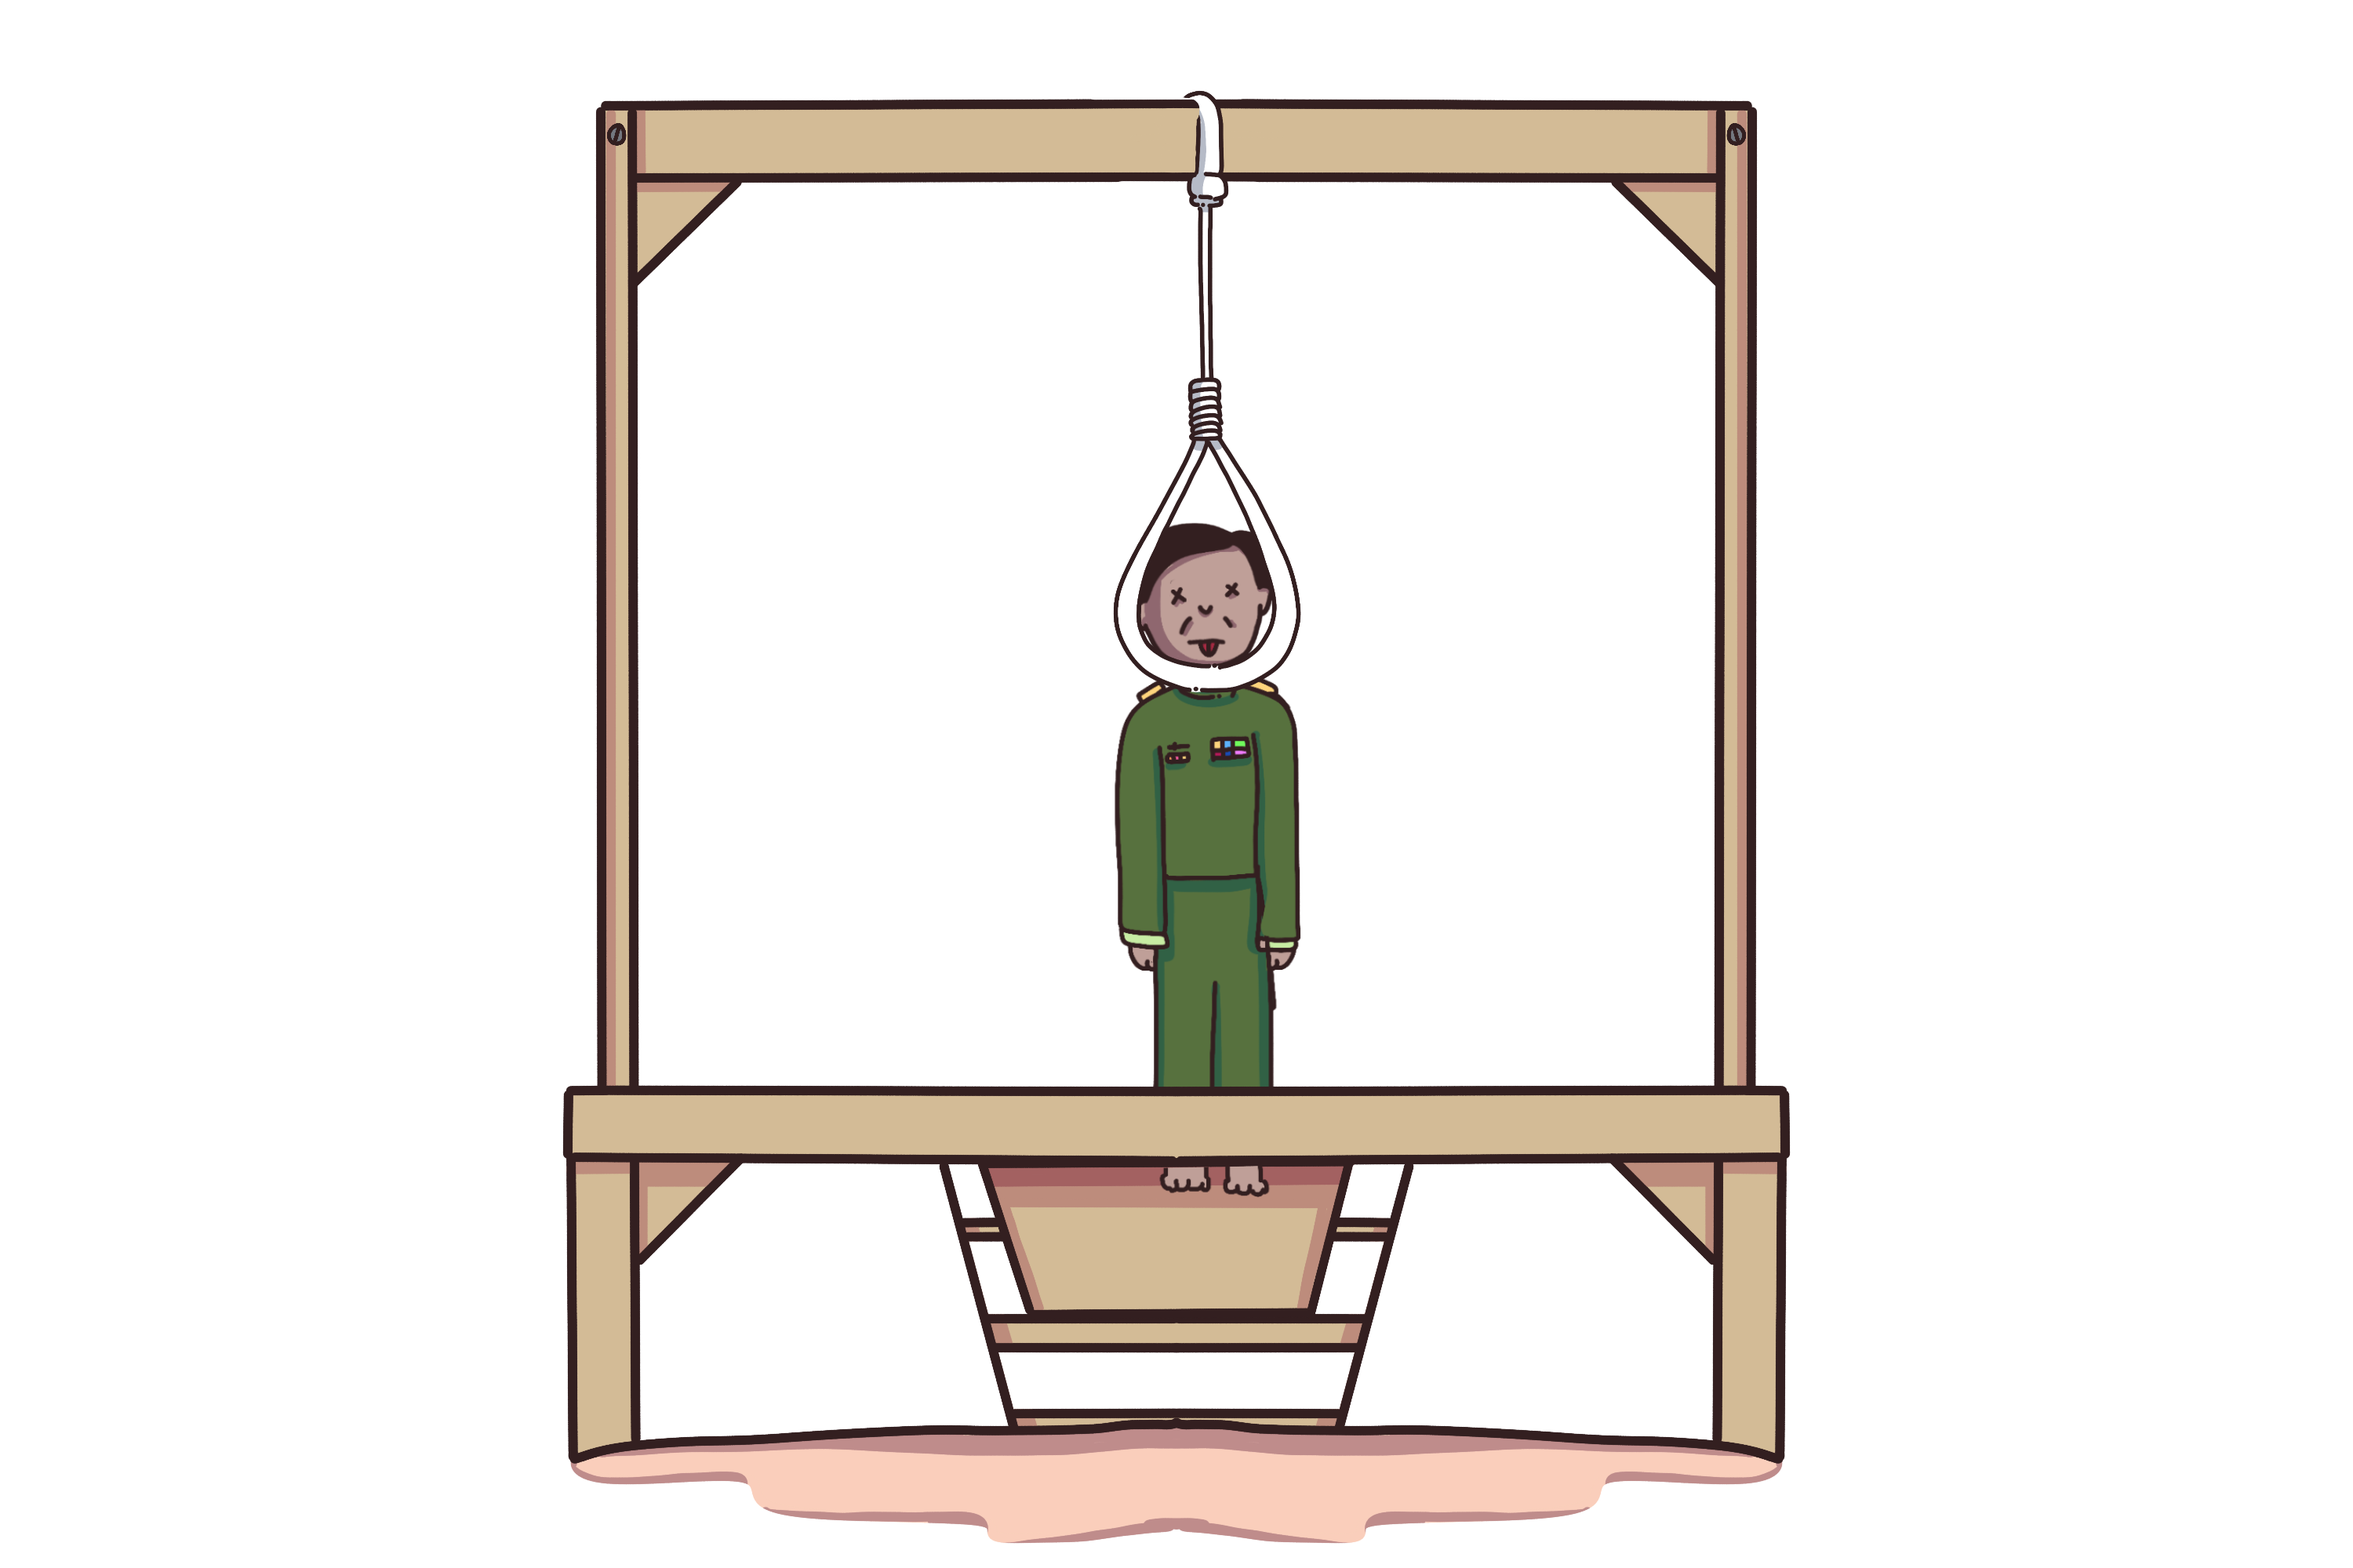
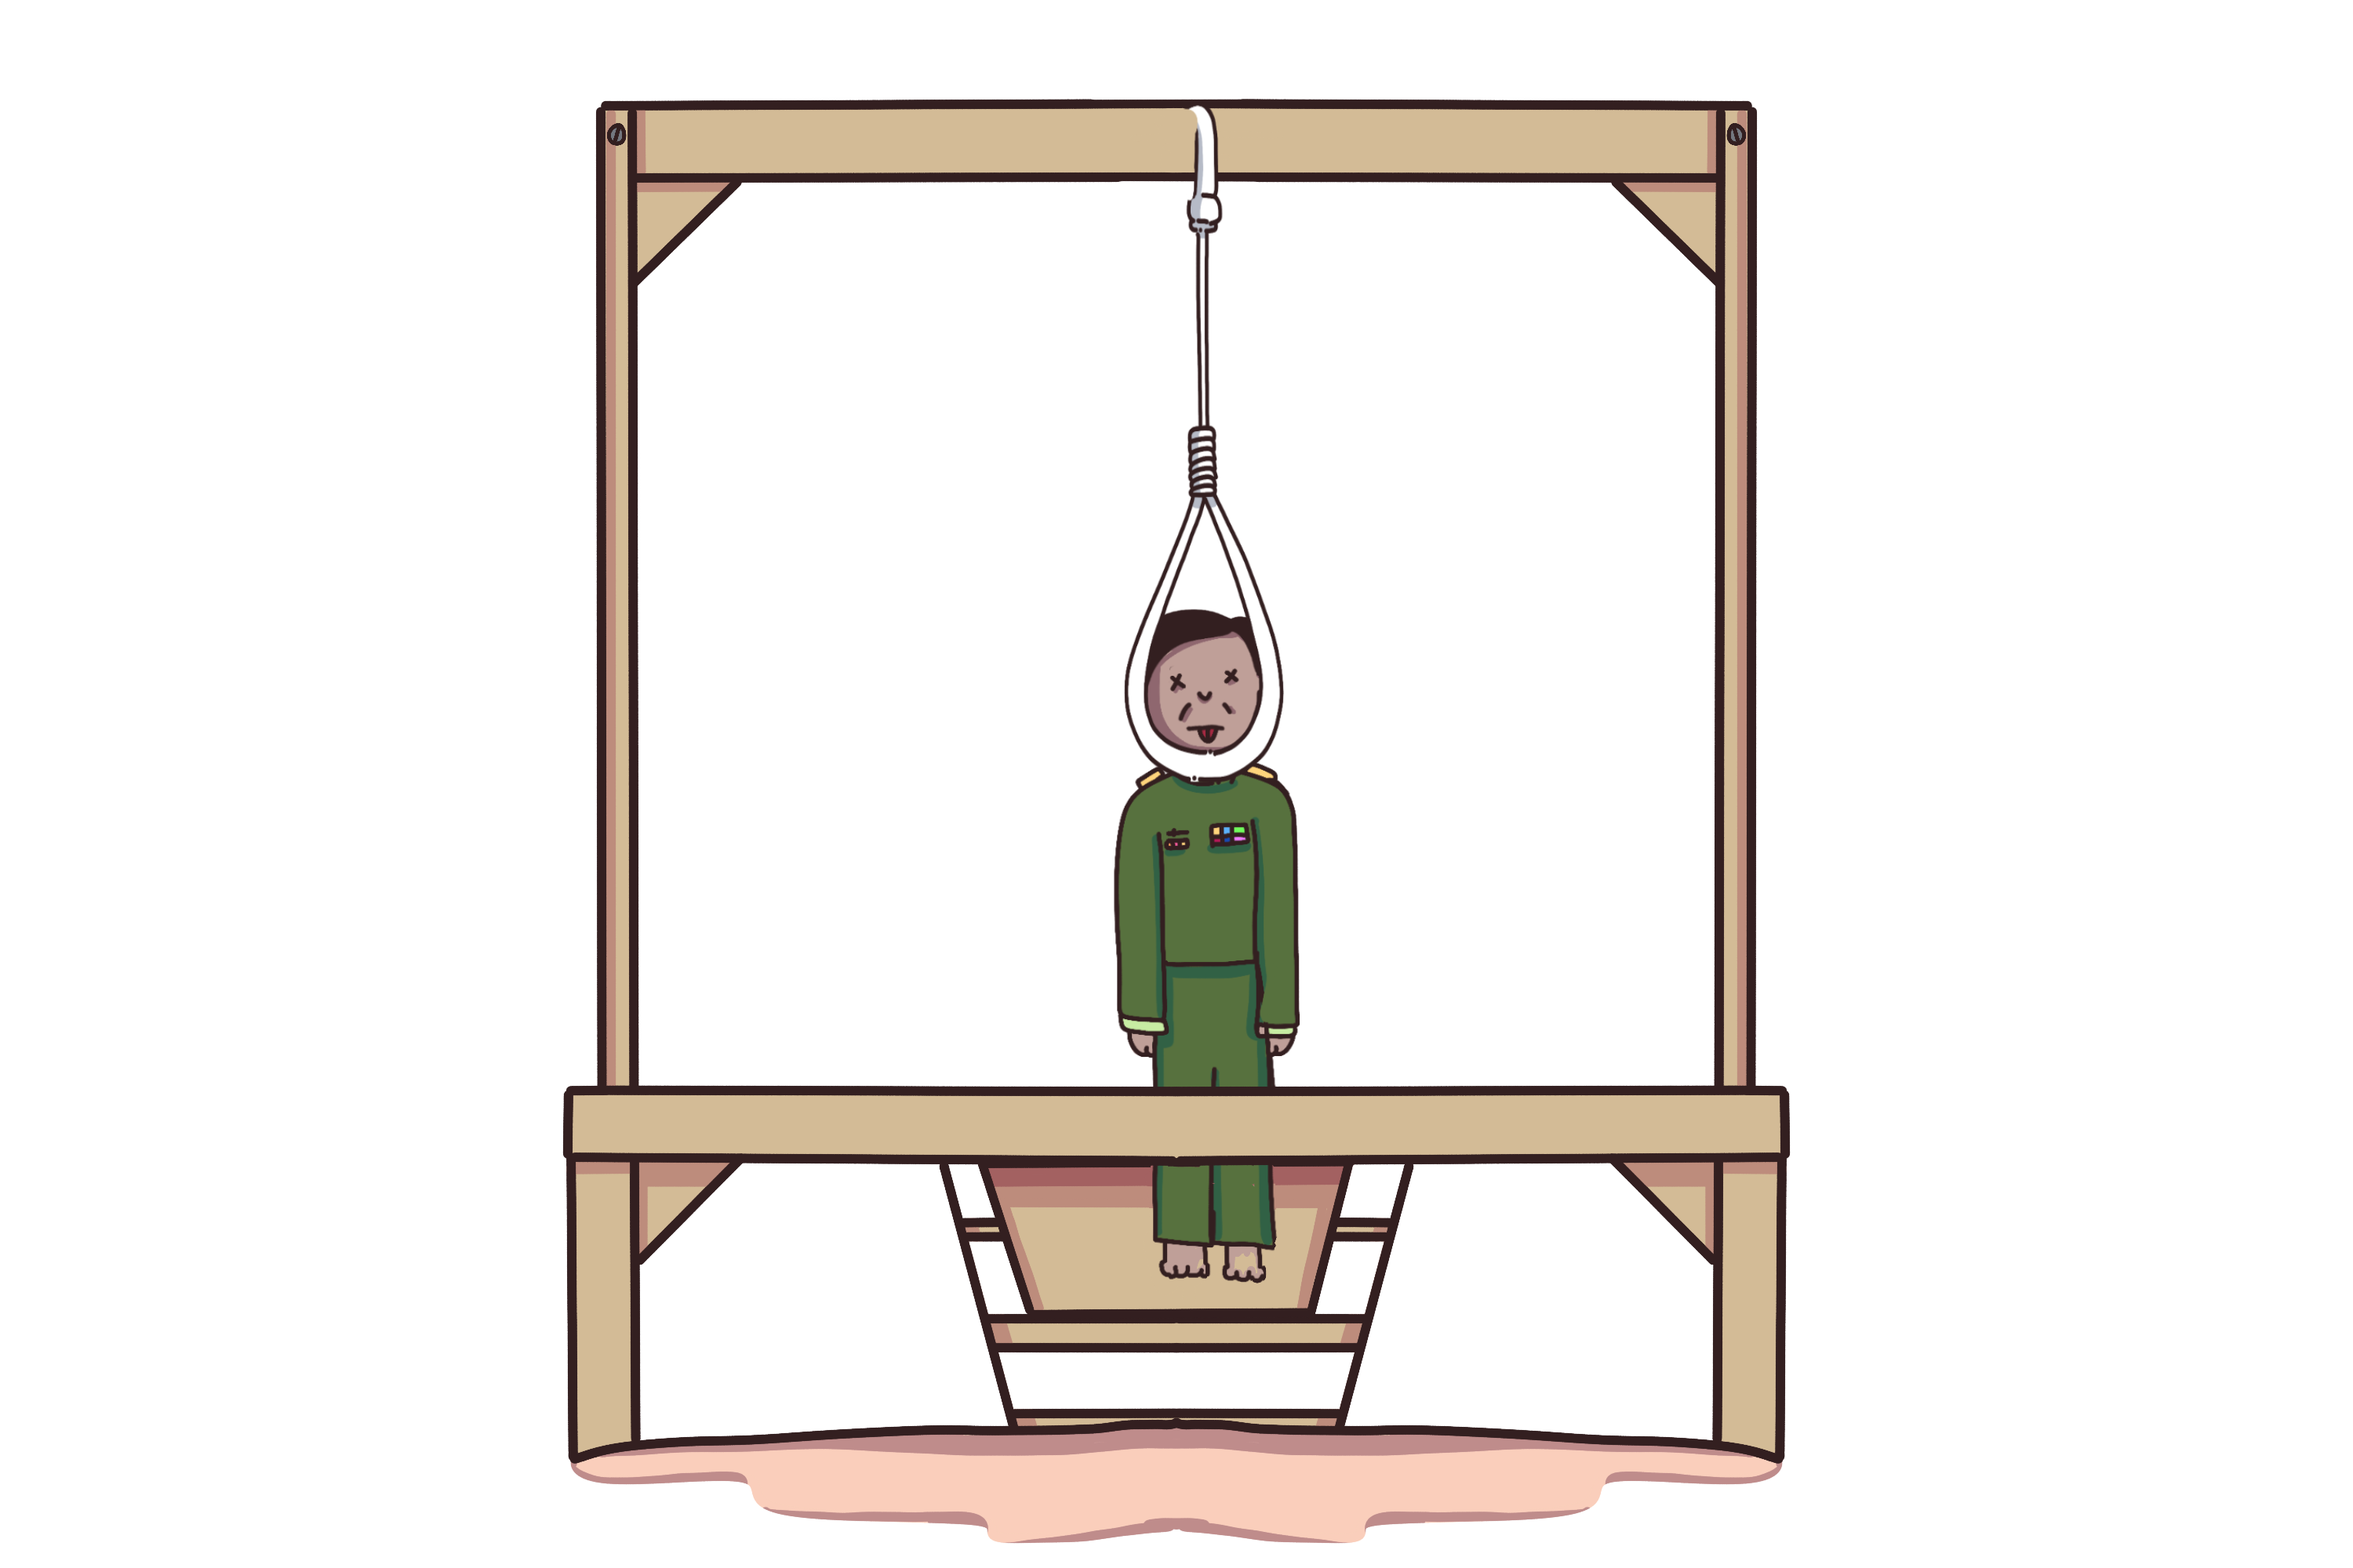
added gameover animation

Changed region(s): [[0.465, 0.062, 0.558, 0.682], [0.465, 0.744, 0.558, 0.837]]

diff --git a/style.css b/style.css
@@ -1,3 +1,12 @@
+html {
+  background-image: linear-gradient(#c13100 0 20%, white 20% 80%, #c13100 80%) 100%;
+  /* background-color: #c13100; */
+  background-size: contain;
+  background-image: url("./img/bg.png");
+  background-repeat: no-repeat;
+  background-attachment: fixed;
+  background-position: top;
+}
 html,
 body {
   margin: 0;
@@ -13,16 +22,19 @@ body {
   width: 1280px;
   /* height: 800px; */
   /*position: fixed;*/
-  margin: 50px auto;
-  background-image: linear-gradient(#c13100, #fe9800);
-  /* background-image: url("./bg.png"); */
-  background-size: cover;
+  margin: 0 auto;
+  padding: 50px auto;
+  /* background-image: linear-gradient(#c13100, #cc6600 50%, #fe9800 95%);
+  background-image: url("./img/banner.png"); */
+  /* background-size: cover;
+  background-image: url("./img/bg.png");
   background-repeat: no-repeat;
   background-attachment: fixed;
-  background-position: center;
+  background-position: top; */
 }
 
 h2 {
+  height: 150px;
   text-align: center;
   color: yellow;
   -webkit-text-stroke-width: 3px;
@@ -37,20 +49,22 @@ h2 {
   padding: 0;
   border: 0;
   text-align: center;
+  /* background-color: white; */
 }
 
 .name {
   height: 50px;
   line-height: 50px;
   background-color: #33e;
-  background-image: linear-gradient(#3d1f00, #33e 20%, #66f 80%);
+  background-image: linear-gradient(#3d1f00, #33e 20%, #99f 80%);
   padding: 0;
   border: 1px solid #119;
   border-radius: 25px;
-  margin: 25px 0;
+  margin: 80px 100px 5px 100px;
 }
 
 input {
+  font-weight: 600;
   color: white;
   font-size: 40px;
   width: 90%;
@@ -59,10 +73,14 @@ input {
   border: 0 solid white;
 }
 
+#choco input {
+  color: #3d1f00;
+}
+
 #choco .name {
-  background-color: #e33;
-  background-image: linear-gradient(#3d1f00, #e33 20%, #f66 80%);
-  border: 1px solid #911;
+  background-color: #ee3;
+  background-image: linear-gradient(#3d1f00, #ee3 20%, #ff6 80%);
+  border: 1px solid #991;
 }
 
 .main {
@@ -80,12 +98,12 @@ input {
   background-position: center;
   background-image: linear-gradient(#fffbd0, #fffbd0);
   cursor: pointer;
-  border-radius: 48%;
+  border-radius: 20px;
   border: #3d1f00 solid 1px;
 }
 
 /* #choco .img {
-  background-image: linear-gradient(#e33, #f66);
+  background-image: linear-gradient(#ee3, #ff6);
 } */
 
 .img img {
@@ -97,13 +115,14 @@ input {
 #berry .img {
   color: #33e;
   width: 100%;
+  background-image: linear-gradient(#99f, #99f);
   /* height: 490px; */
   /* background-image: url("img/berry.gif");
   transform: scaleX(-1); */
 }
 
 #choco .img {
-  color: #e33;
+  color: #ee3;
   /* background-image: url("img/choco.png"); */
 }
 
@@ -351,7 +370,7 @@ input {
     transform: scale(1500%, 1500%);
   }
   100% {
-    transform: scale(100%, 100%);
+    transform: scale(101%, 101%);
   }
 }
 
@@ -362,4 +381,86 @@ input {
   width: 17.5%;
   transform-origin: center;
   animation-name: dead;
+}
+
+@keyframes win1 {
+  0% {
+    /* transform: scale(100%, 100%);
+    border-radius: 48%; */
+  }
+  100% {
+    transform: scale(150%, 150%) translateX(19%);
+  }
+}
+
+.finished {
+  display: block;
+  animation-duration: 1s;
+  animation-iteration-count: 1;
+  animation-timing-function: ease-in-out;
+  animation-fill-mode: forwards;
+}
+
+#berry .finished {
+  transform-origin: bottom left;
+  animation-name: win1;
+}
+
+.lose {
+  visibility: hidden;
+  opacity: 0;
+  transition: visibility 0s 1s, opacity 1s linear;
+}
+
+@keyframes win2 {
+  0% {
+    /* transform: scale(100%, 100%);
+    border-radius: 48%; */
+  }
+  100% {
+    transform: scale(150%, 150%) translateX(-16%);
+  }
+}
+
+#choco .finished {
+  transform-origin: bottom right;
+  animation-name: win2;
+}
+
+/* div.name.finished {
+  position: relative;
+  z-index: 10;
+} */
+
+.winner.hidden {
+  display: none;
+}
+
+.winner.show {
+  width: 100%;
+  text-align: center;
+  display: block;
+  visibility: visible;
+  opacity: 1;
+  transition: opacity 2s linear;
+  animation-duration: 1s;
+  animation-iteration-count: 1;
+  animation-timing-function: ease-in-out;
+  animation-fill-mode: forwards;
+  animation-delay: 1s;
+  transform-origin: center;
+  animation-name: winning;
+  font-size: 5.5rem;
+  text-shadow: #3d1f00 5px 5px 5px;
+  color: #c13100;
+}
+
+@keyframes winning {
+  0% {
+    /* transform: scale(100%, 100%);
+    border-radius: 48%; */
+  }
+  100% {
+    transform: translateY(-600px);
+  }
 }

diff --git a/script.js b/script.js
@@ -7,6 +7,7 @@
   let team2score = 0;
   let savedscore = [0, 0];
   let waiting = false;
+  let gameover = false;
 
   const setAttr = (team, score) => {
     team.querySelector("img").setAttribute("src", `img/frames/${score}.PNG`);
@@ -21,8 +22,13 @@
         setAttr(team1, team1score);
         animate("P1", team1score, false);
         savedscore[0] = team1score;
+
+        if (team1score === 10)
+          setTimeout(() => {
+            ending(document.querySelector("#berry"), document.querySelector("#choco"));
+          }, 1000);
         waiting = false;
-      }, 600);
+      }, 500);
     }
   };
 
@@ -36,6 +42,10 @@
         animate("P2", team2score, false);
         savedscore[1] = team2score;
         waiting = false;
+        if (team2score === 10)
+          setTimeout(() => {
+            ending(document.querySelector("#choco"), document.querySelector("#berry"));
+          }, 1000);
       }, 600);
     }
   };
@@ -43,12 +53,20 @@
   const animate = (team, score, show = true) => {
     try {
       if (show) document.querySelector(`#${team}${score}`).className = "show";
-      else {
-        document.querySelector(`#${team}${score}`).className = "";
-        if (score === 9)
-          document.querySelector(`#${team}${score}`).setAttribute("style", "width:100% !important");
-      }
+      else document.querySelector(`#${team}${score}`).className = "";
     } catch (e) {}
+  };
+
+  const ending = (win, lose) => {
+    gameover = true;
+    team1.removeEventListener("click", team1plus, false);
+    team2.removeEventListener("click", team2plus, false);
+    win.querySelector(".img").className = "img finished";
+    win.querySelector(".name").className = "lose";
+    lose.className = "lose";
+    const winner = document.querySelector(".winner.hidden");
+    winner.innerHTML = `WINNER IS TEAM ${win.querySelector("input").value}`;
+    winner.className = "winner show";
   };
 
   team1.addEventListener("click", team1plus, false);
@@ -57,6 +75,7 @@
   document.addEventListener(
     "keydown",
     ({ code }) => {
+      if (gameover) return;
       switch (code) {
         case "ArrowLeft":
           if (team1score === 0) return;

diff --git a/index.html b/index.html
@@ -12,11 +12,12 @@
 </head>
 
 <body>
-  <h2>ပြည်သူ့အောင်ပွဲ - အလယ်ပိုင်းတိုင်း</h2>
+  <!-- <h2>ပြည်သူ့အောင်ပွဲ - အလယ်ပိုင်းတိုင်း</h2> -->
+  <h2 style="display: block;"> </h2>
   <div class="denizen">
     <div id="berry">
       <div class="name">
-        <input type="text" value="TEAM 1"></input>
+        <input type="text" value="CDM"></input>
       </div>
       <div class="main">
         <div class="parts">
@@ -40,7 +41,7 @@
   <div class="denizen">
     <div id="choco">
       <div class="name">
-        <input type="text" value="TEAM 2"></input>
+        <input type="text" value="PDF"></input>
       </div>
       <div class="main">
         <div class="parts">
@@ -61,6 +62,7 @@
       </div>
     </div>
   </div>
+  <h1 class="winner hidden">WINNER!</h1>
   <script src="script.js" charset="utf-8"></script>
 </body>
 
